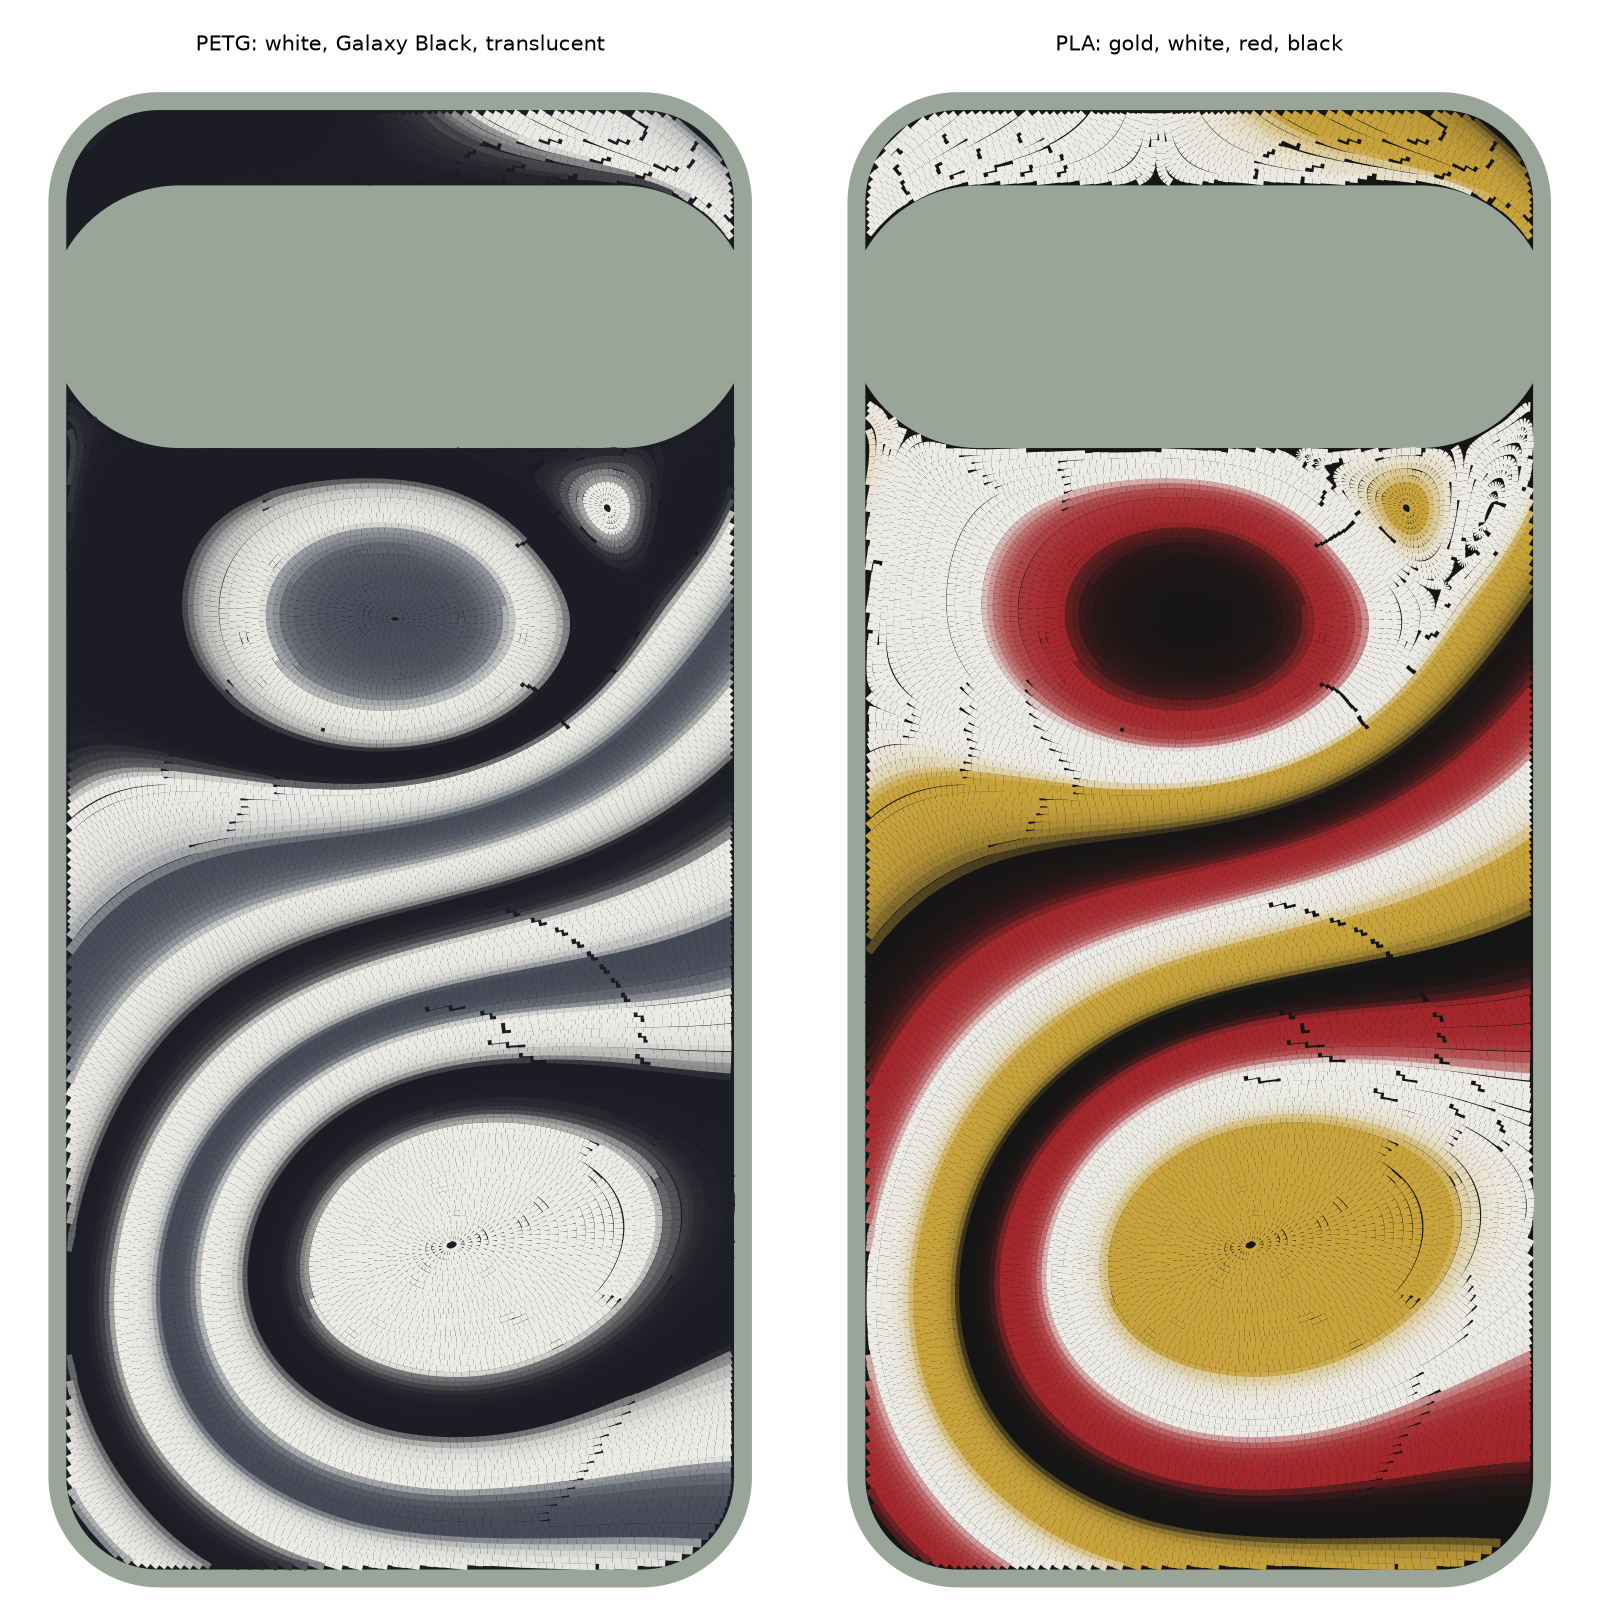
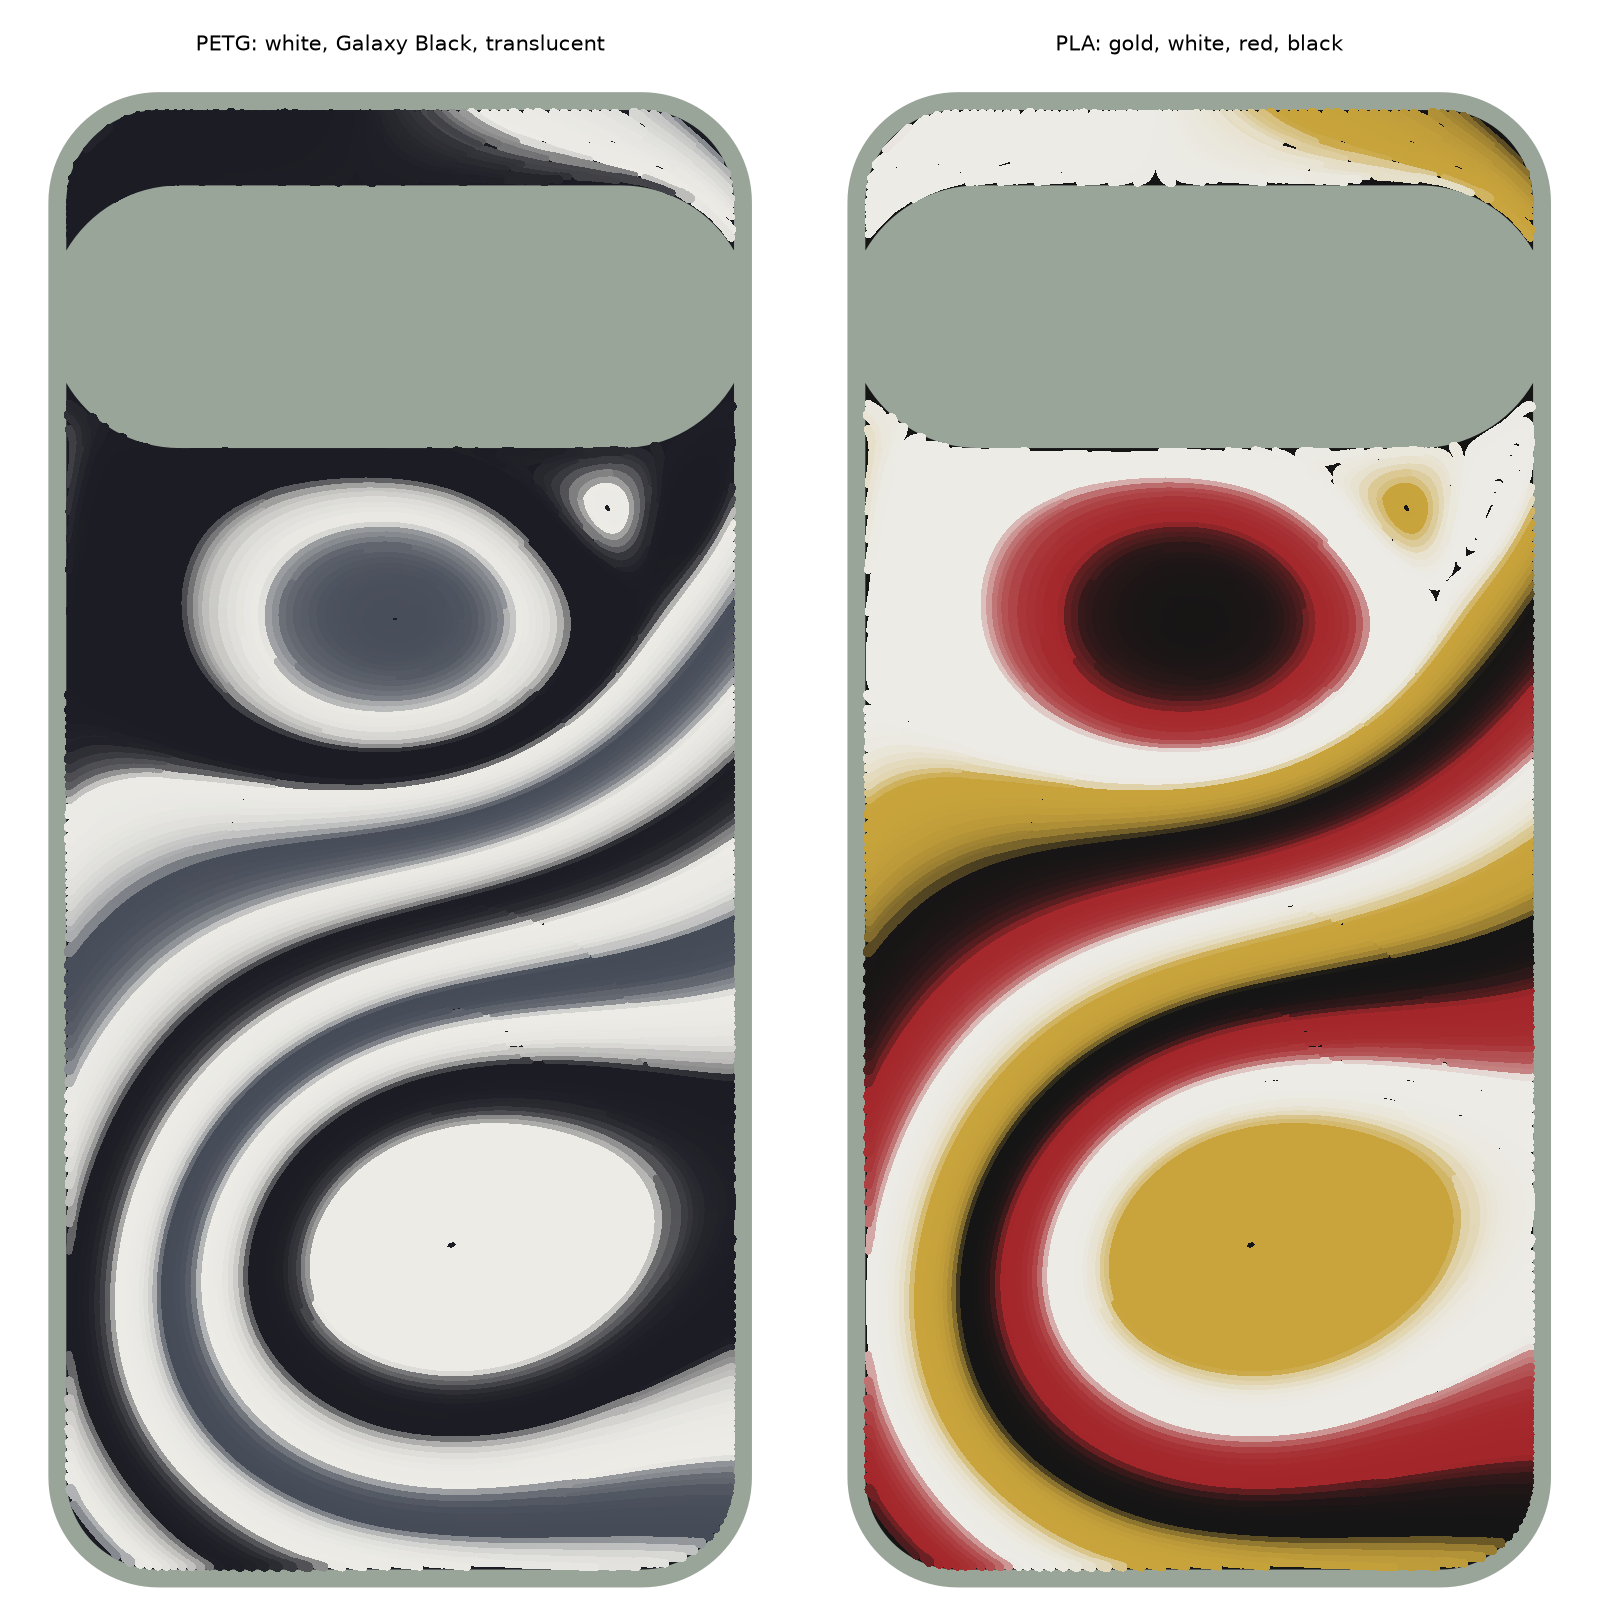
Colour preview: beads at their own widths, without anti-aliasing seams

diff --git a/case/figures.py b/case/figures.py
@@ -204,8 +204,8 @@ def streamline_previews(lyr, region, bands, p: Phone, c: Case, out: pathlib.Path
             fl = flip(l)
             w = lyr.widths(k)
             segs += list(np.stack([fl[:-1], fl[1:]], 1)); rgb += list(0.5 * (cl[:-1] + cl[1:]))
-            lws += list(0.5 * (w[1:] + w[:-1]) * lw / lyr.d_sep * 0.92)  # printed width (beads overlap a little)
-        ax.add_collection(LineCollection(segs, linewidths=lws, colors=rgb, capstyle="butt"))
+            lws += list(0.5 * (w[1:] + w[:-1]) * lw / lyr.d_sep)  # printed width
+        ax.add_collection(LineCollection(segs, linewidths=lws, colors=rgb, capstyle="round", antialiaseds=False))
         ax.set_title(title, fontsize=9)
     fig.subplots_adjust(0.01, 0.0, 0.99, 0.96, wspace=0.04)
     fig.savefig(out / "streamline_colors.png", dpi=170)

diff --git a/out/REPORT.md b/out/REPORT.md
@@ -1,6 +1,6 @@
 # Build report
 
-Built by `python -m case.build` in 19 s.
+Built by `python -m case.build` in 18 s.
 
 | part | material | model mass (g) | size as printed (mm) | print time | filament (g, slicer) | colour changes |
 |---|---|---|---|---|---|---|
